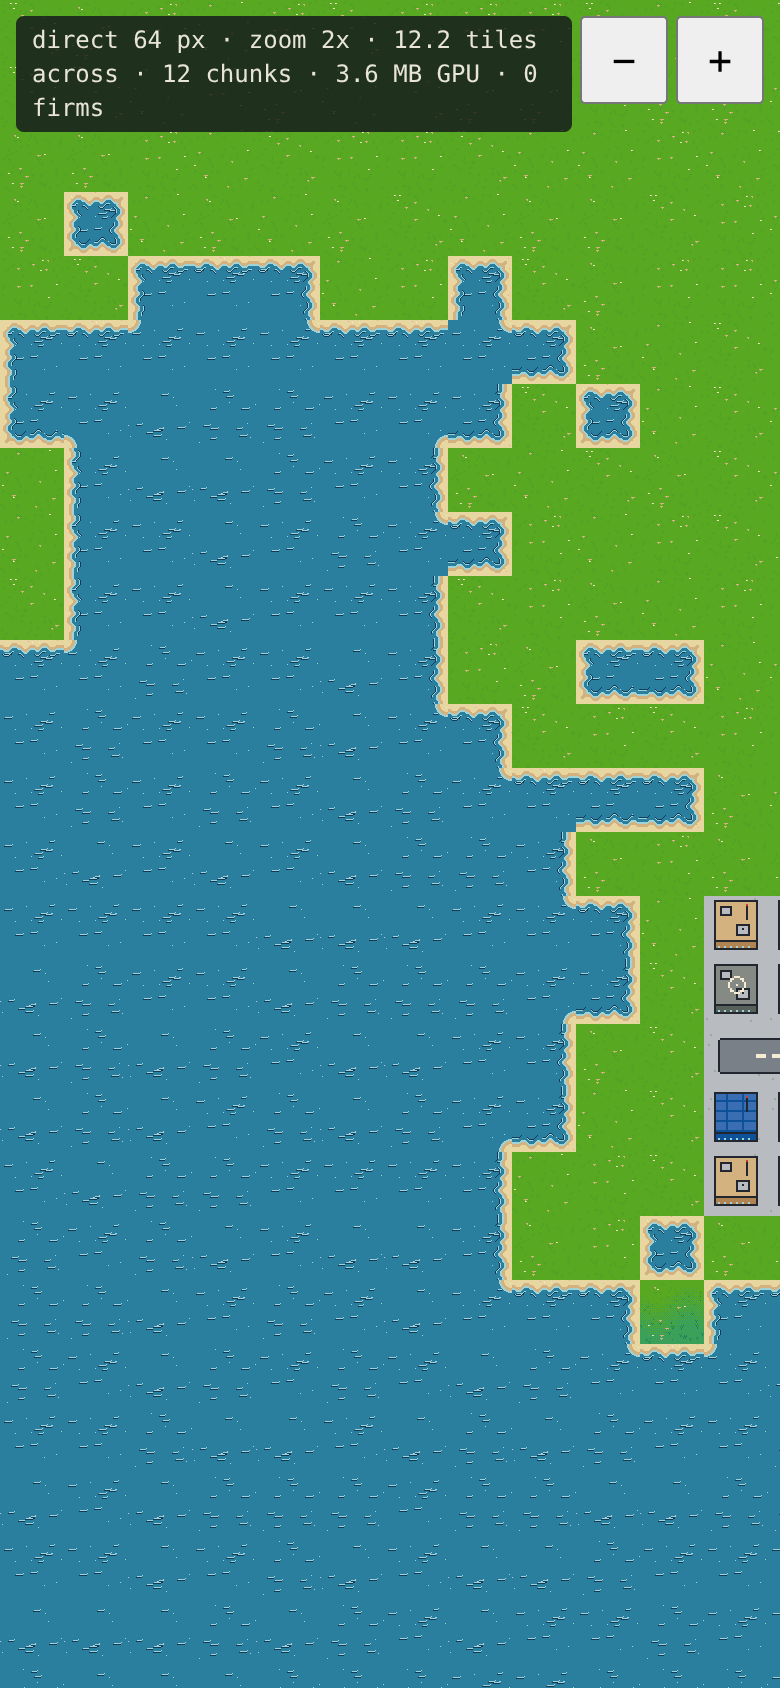
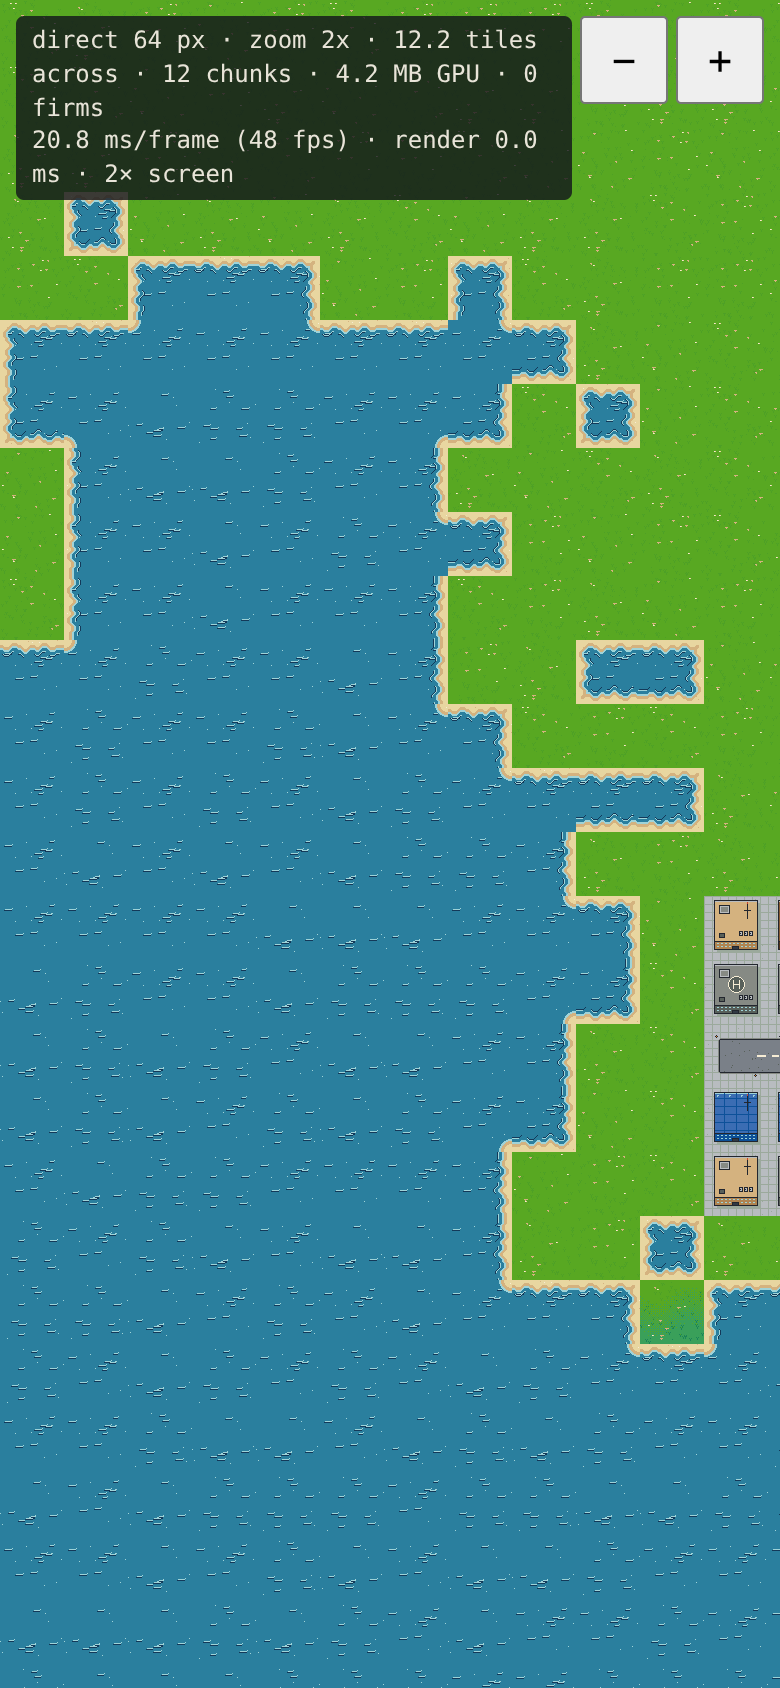
ci: deploy client to GitHub Pages; HUD frame-time readout for phone tests (#60)

Changed region(s): [[0.0, 0.0308, 0.7385, 0.1232], [0.8923, 0.5237, 1.0, 0.7393]]

diff --git a/client/src/main.ts b/client/src/main.ts
@@ -65,6 +65,27 @@ async function boot() {
   };
 
   const hud = document.getElementById("hud")!;
+  const hudInfo = document.createElement("span");
+  const hudPerf = document.createElement("span");
+  hud.replaceChildren(hudInfo, document.createElement("br"), hudPerf);
+
+  // On-screen frame time for real-device checks: average frame interval over the last
+  // 60 frames (capped by the screen's refresh rate) and the CPU time of the render call.
+  const frameMs: number[] = [];
+  const renderMs: number[] = [];
+  const push = (a: number[], v: number) => (a.push(v), a.length > 60 && a.shift());
+  const avg = (a: number[]) => (a.length ? a.reduce((x, y) => x + y, 0) / a.length : 0);
+  const render = app.render.bind(app);
+  app.render = () => {
+    const t0 = performance.now();
+    render();
+    push(renderMs, performance.now() - t0);
+  };
+  app.ticker.add((t) => push(frameMs, t.deltaMS));
+  setInterval(() => {
+    const f = avg(frameMs);
+    hudPerf.textContent = `${f.toFixed(1)} ms/frame (${f ? Math.round(1000 / f) : 0} fps) · render ${avg(renderMs).toFixed(1)} ms · ${devicePixelRatio}× screen`;
+  }, 500);
   const apply = () => {
     view = clampView({ ...view, ...screen() }, map.width, map.height);
     chunks.update(view);
@@ -84,7 +105,7 @@ async function boot() {
       baked: chunks.baked,
       firms: firms.visibleCount,
     };
-    hud.textContent = `${stats.mode} ${art} px · zoom ${stats.zoom}x · ${stats.tilesAcross} tiles across · ${stats.chunks} chunks · ${stats.mb} MB GPU · ${stats.firms} firms`;
+    hudInfo.textContent = `${stats.mode} ${art} px · zoom ${stats.zoom}x · ${stats.tilesAcross} tiles across · ${stats.chunks} chunks · ${stats.mb} MB GPU · ${stats.firms} firms`;
     (window as unknown as { __cppStats: typeof stats }).__cppStats = stats;
   };
 

diff --git a/client/README.md b/client/README.md
@@ -30,3 +30,10 @@ URL parameters pick the terrain renderer, for comparison: `mode=baked|direct`, `
 `chunk=<tiles per chunk side>`. Default is `mode=baked&art=32&chunk=32`. `npm run bench` (after
 `npm run build`) prints memory and frame time for each variant at phone and desktop sizes.
 Chrome there renders WebGL on the CPU (SwiftShader), so frame times are only relative.
+
+## Live build
+
+`.github/workflows/pages.yml` deploys `client/` to GitHub Pages on every push to main:
+https://esetebanjimenez.github.io/capitalism-plus-plus/ (same URL options, for example
+`?mode=direct&art=64&chunk=16`). The HUD's second line shows the average frame time, the
+render call's CPU time and the screen's pixel density.
